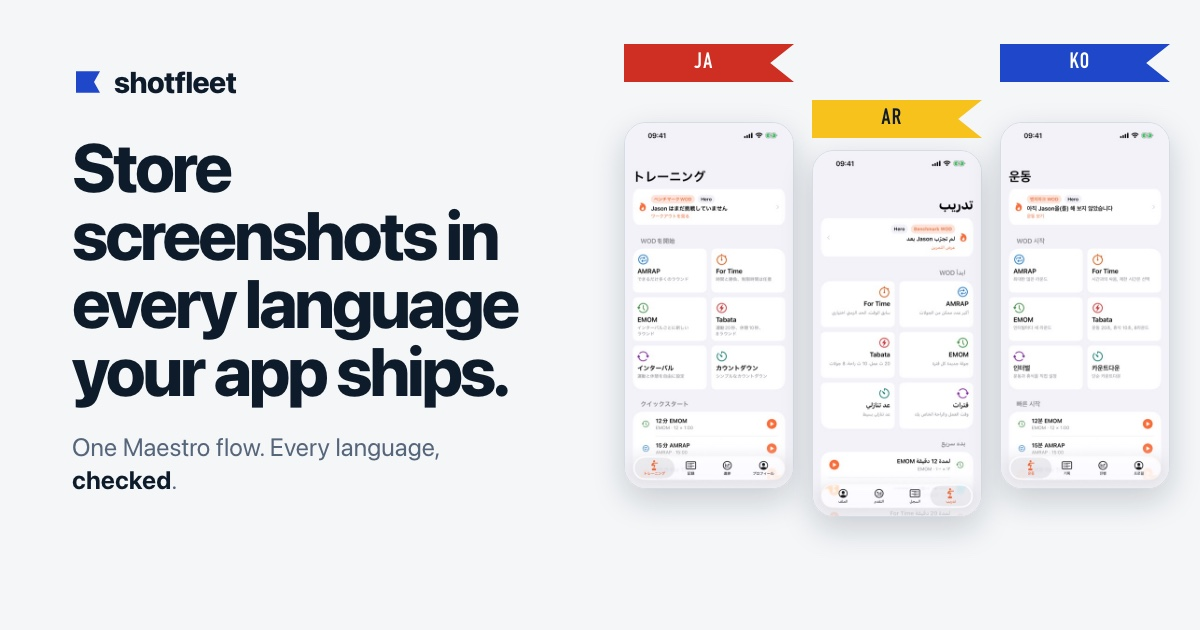
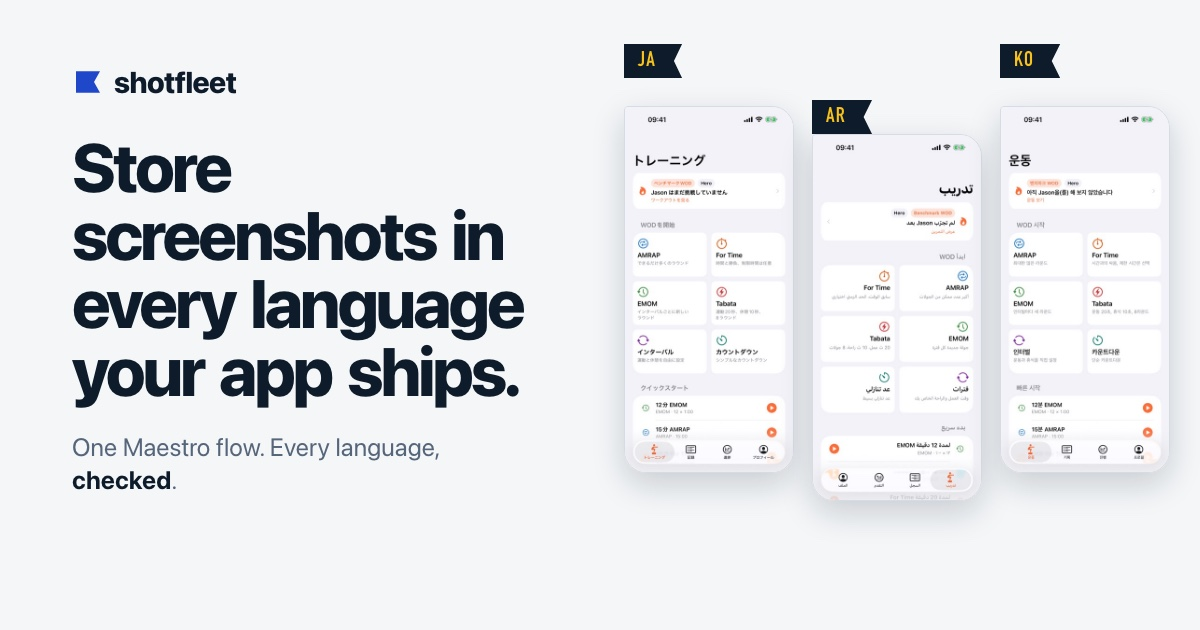
Site: flat ink ribbons with the language code in yellow, language names as captions, a tabbed gallery of Remoti, Stressi and Cairn store screenshots, clearer bug label; matching og.jpg

diff --git a/site/public/index.html b/site/public/index.html
@@ -76,32 +76,39 @@
 
   <div class="fleet" role="group" aria-label="The same app screen in seven languages, each checked" tabindex="0">
       <figure class="ship" style="--i:0">
-        <span class="flag r" aria-hidden="true">ja</span>
+        <span class="ribbon" aria-hidden="true"><span class="flag k"><b>ja</b></span></span>
         <div class="shot"><img src="img/train_ja.jpg" alt="WOD Tracker's Train screen in Japanese, checked" width="360" height="782"><span class="stamp"><svg viewBox="0 0 16 16" fill="none" stroke="currentColor" stroke-width="2.4" stroke-linecap="round" stroke-linejoin="round" aria-hidden="true"><path d="M3 8.5l3.2 3.2L13 4.8"/></svg></span></div>
+        <figcaption>日本語</figcaption>
       </figure>
       <figure class="ship" style="--i:1">
-        <span class="flag k" aria-hidden="true">fr</span>
+        <span class="ribbon" aria-hidden="true"><span class="flag k"><b>fr</b></span></span>
         <div class="shot"><img src="img/train_fr.jpg" alt="WOD Tracker's Train screen in French, checked" width="360" height="782"><span class="stamp"><svg viewBox="0 0 16 16" fill="none" stroke="currentColor" stroke-width="2.4" stroke-linecap="round" stroke-linejoin="round" aria-hidden="true"><path d="M3 8.5l3.2 3.2L13 4.8"/></svg></span></div>
+        <figcaption>Français</figcaption>
       </figure>
       <figure class="ship" style="--i:2">
-        <span class="flag y" aria-hidden="true">ar</span>
+        <span class="ribbon" aria-hidden="true"><span class="flag k"><b>ar</b></span></span>
         <div class="shot"><img src="img/train_ar.jpg" alt="WOD Tracker's Train screen in Arabic, checked" width="360" height="782"><span class="stamp"><svg viewBox="0 0 16 16" fill="none" stroke="currentColor" stroke-width="2.4" stroke-linecap="round" stroke-linejoin="round" aria-hidden="true"><path d="M3 8.5l3.2 3.2L13 4.8"/></svg></span></div>
+        <figcaption>العربية</figcaption>
       </figure>
       <figure class="ship" style="--i:3">
-        <span class="flag b" aria-hidden="true">ko</span>
+        <span class="ribbon" aria-hidden="true"><span class="flag k"><b>ko</b></span></span>
         <div class="shot"><img src="img/train_ko.jpg" alt="WOD Tracker's Train screen in Korean, checked" width="360" height="782"><span class="stamp"><svg viewBox="0 0 16 16" fill="none" stroke="currentColor" stroke-width="2.4" stroke-linecap="round" stroke-linejoin="round" aria-hidden="true"><path d="M3 8.5l3.2 3.2L13 4.8"/></svg></span></div>
+        <figcaption>한국어</figcaption>
       </figure>
       <figure class="ship" style="--i:4">
-        <span class="flag r" aria-hidden="true">ru</span>
+        <span class="ribbon" aria-hidden="true"><span class="flag k"><b>ru</b></span></span>
         <div class="shot"><img src="img/train_ru.jpg" alt="WOD Tracker's Train screen in Russian, checked" width="360" height="782" loading="lazy"><span class="stamp"><svg viewBox="0 0 16 16" fill="none" stroke="currentColor" stroke-width="2.4" stroke-linecap="round" stroke-linejoin="round" aria-hidden="true"><path d="M3 8.5l3.2 3.2L13 4.8"/></svg></span></div>
+        <figcaption>Русский</figcaption>
       </figure>
       <figure class="ship" style="--i:5">
-        <span class="flag y" aria-hidden="true">es</span>
+        <span class="ribbon" aria-hidden="true"><span class="flag k"><b>es</b></span></span>
         <div class="shot"><img src="img/train_es.jpg" alt="WOD Tracker's Train screen in Spanish, checked" width="360" height="782" loading="lazy"><span class="stamp"><svg viewBox="0 0 16 16" fill="none" stroke="currentColor" stroke-width="2.4" stroke-linecap="round" stroke-linejoin="round" aria-hidden="true"><path d="M3 8.5l3.2 3.2L13 4.8"/></svg></span></div>
+        <figcaption>Español</figcaption>
       </figure>
       <figure class="ship" style="--i:6">
-        <span class="flag b" aria-hidden="true">de</span>
+        <span class="ribbon" aria-hidden="true"><span class="flag k"><b>de</b></span></span>
         <div class="shot"><img src="img/train_de.jpg" alt="WOD Tracker's Train screen in German, checked" width="360" height="782" loading="lazy"><span class="stamp"><svg viewBox="0 0 16 16" fill="none" stroke="currentColor" stroke-width="2.4" stroke-linecap="round" stroke-linejoin="round" aria-hidden="true"><path d="M3 8.5l3.2 3.2L13 4.8"/></svg></span></div>
+        <figcaption>Deutsch</figcaption>
       </figure>
       <div class="ship more" style="--i:7"><p>+11</p><span>more languages in the same run</span></div>
   </div>
@@ -136,7 +143,7 @@ checked 72 screenshots: 0 problem(s)</span></pre>
         <p>It was a two-line fix in my app.</p>
       </div>
       <figure class="catch" style="margin:0">
-        <span class="flag r" aria-hidden="true">zh · stuck</span>
+        <span class="flag r" aria-hidden="true">zh · Next is off-screen</span>
         <img src="img/bug_zh.jpg" alt="The Chinese onboarding page on a small Android phone: the Next button is missing below the last option" width="360" height="640" loading="lazy">
       </figure>
     </div>
@@ -172,6 +179,105 @@ checked 72 screenshots: 0 problem(s)</span></pre>
       <div>
         <h2 class="point">Made to work with the rest</h2>
         <p>shotfleet makes the correct raw screenshots. Add frames and captions with ButterKit, AppScreens or frameit, and upload with fastlane. It can check screenshots from any of them too.</p>
+      </div>
+    </div>
+  </section>
+
+  <section class="section" id="apps" aria-labelledby="apps-h">
+    <div class="wrap">
+      <h2 id="apps-h">The same screen, in the languages of my other apps.</h2>
+      <p class="muted lede-small">I ship these too. These are their real store screenshots: one screen, five languages, the thing every listing has to get right.</p>
+      <div class="tabs" role="tablist" aria-label="My apps">
+        <button role="tab" id="tab-remoti" aria-controls="panel-remoti" aria-selected="true">Remoti <span>iPhone</span></button>
+        <button role="tab" id="tab-stressi" aria-controls="panel-stressi" aria-selected="false" tabindex="-1">Stressi <span>Android</span></button>
+        <button role="tab" id="tab-cairn" aria-controls="panel-cairn" aria-selected="false" tabindex="-1">Cairn <span>iPad</span></button>
+      </div>
+    </div>
+    <div class="tabpanel" role="tabpanel" id="panel-remoti" aria-labelledby="tab-remoti">
+      <div class="fleet small" role="group" aria-label="Remoti, the same screen in five languages" tabindex="0">
+        <figure class="ship " style="--i:0">
+          <span class="ribbon" aria-hidden="true"><span class="flag k"><b>ja</b></span></span>
+          <div class="shot"><img src="img/remoti_ja.jpg" alt="Remoti's job list in Japanese" width="359" height="782" loading="lazy"></div>
+        <figcaption>日本語</figcaption>
+        </figure>
+        <figure class="ship " style="--i:1">
+          <span class="ribbon" aria-hidden="true"><span class="flag k"><b>ko</b></span></span>
+          <div class="shot"><img src="img/remoti_ko.jpg" alt="Remoti's job list in Korean" width="359" height="782" loading="lazy"></div>
+        <figcaption>한국어</figcaption>
+        </figure>
+        <figure class="ship " style="--i:2">
+          <span class="ribbon" aria-hidden="true"><span class="flag k"><b>ru</b></span></span>
+          <div class="shot"><img src="img/remoti_ru.jpg" alt="Remoti's job list in Russian" width="359" height="782" loading="lazy"></div>
+        <figcaption>Русский</figcaption>
+        </figure>
+        <figure class="ship " style="--i:3">
+          <span class="ribbon" aria-hidden="true"><span class="flag k"><b>hi</b></span></span>
+          <div class="shot"><img src="img/remoti_hi.jpg" alt="Remoti's job list in Hindi" width="359" height="782" loading="lazy"></div>
+        <figcaption>हिन्दी</figcaption>
+        </figure>
+        <figure class="ship " style="--i:4">
+          <span class="ribbon" aria-hidden="true"><span class="flag k"><b>de</b></span></span>
+          <div class="shot"><img src="img/remoti_de.jpg" alt="Remoti's job list in German" width="359" height="782" loading="lazy"></div>
+        <figcaption>Deutsch</figcaption>
+        </figure>
+      </div>
+    </div>
+    <div class="tabpanel" role="tabpanel" id="panel-stressi" aria-labelledby="tab-stressi">
+      <div class="fleet small" role="group" aria-label="Stressi, the same screen in five languages" tabindex="0">
+        <figure class="ship " style="--i:0">
+          <span class="ribbon" aria-hidden="true"><span class="flag k"><b>ja</b></span></span>
+          <div class="shot"><img src="img/stressi_ja.jpg" alt="Stressi's body-state screen in Japanese" width="348" height="782" loading="lazy"></div>
+        <figcaption>日本語</figcaption>
+        </figure>
+        <figure class="ship " style="--i:1">
+          <span class="ribbon" aria-hidden="true"><span class="flag k"><b>ko</b></span></span>
+          <div class="shot"><img src="img/stressi_ko.jpg" alt="Stressi's body-state screen in Korean" width="348" height="782" loading="lazy"></div>
+        <figcaption>한국어</figcaption>
+        </figure>
+        <figure class="ship " style="--i:2">
+          <span class="ribbon" aria-hidden="true"><span class="flag k"><b>de</b></span></span>
+          <div class="shot"><img src="img/stressi_de.jpg" alt="Stressi's body-state screen in German" width="348" height="782" loading="lazy"></div>
+        <figcaption>Deutsch</figcaption>
+        </figure>
+        <figure class="ship " style="--i:3">
+          <span class="ribbon" aria-hidden="true"><span class="flag k"><b>zh</b></span></span>
+          <div class="shot"><img src="img/stressi_zh.jpg" alt="Stressi's body-state screen in Chinese" width="348" height="782" loading="lazy"></div>
+        <figcaption>中文</figcaption>
+        </figure>
+        <figure class="ship " style="--i:4">
+          <span class="ribbon" aria-hidden="true"><span class="flag k"><b>es</b></span></span>
+          <div class="shot"><img src="img/stressi_es.jpg" alt="Stressi's body-state screen in Spanish" width="348" height="782" loading="lazy"></div>
+        <figcaption>Español</figcaption>
+        </figure>
+      </div>
+    </div>
+    <div class="tabpanel" role="tabpanel" id="panel-cairn" aria-labelledby="tab-cairn">
+      <div class="fleet small" role="group" aria-label="Cairn on iPad, the same screen in five languages" tabindex="0">
+        <figure class="ship land" style="--i:0">
+          <span class="ribbon" aria-hidden="true"><span class="flag k"><b>ja</b></span></span>
+          <div class="shot"><img src="img/cairn_ja.jpg" alt="Cairn on iPad in Japanese" width="620" height="465" loading="lazy"></div>
+        <figcaption>日本語</figcaption>
+        </figure>
+        <figure class="ship land" style="--i:1">
+          <span class="ribbon" aria-hidden="true"><span class="flag k"><b>ko</b></span></span>
+          <div class="shot"><img src="img/cairn_ko.jpg" alt="Cairn on iPad in Korean" width="620" height="465" loading="lazy"></div>
+        <figcaption>한국어</figcaption>
+        </figure>
+        <figure class="ship land" style="--i:2">
+          <span class="ribbon" aria-hidden="true"><span class="flag k"><b>de</b></span></span>
+          <div class="shot"><img src="img/cairn_de.jpg" alt="Cairn on iPad in German" width="620" height="465" loading="lazy"></div>
+        <figcaption>Deutsch</figcaption>
+        </figure>
+        <figure class="ship land" style="--i:3">
+          <span class="ribbon" aria-hidden="true"><span class="flag k"><b>zh</b></span></span>
+          <div class="shot"><img src="img/cairn_zh.jpg" alt="Cairn on iPad in Chinese" width="620" height="465" loading="lazy"></div>
+        <figcaption>中文</figcaption>
+        </figure>
+        <figure class="ship land" style="--i:4">
+          <span class="ribbon" aria-hidden="true"><span class="flag k"><b>fr</b></span></span>
+          <div class="shot"><img src="img/cairn_fr.jpg" alt="Cairn on iPad in French" width="620" height="465" loading="lazy"></div>
+        <figcaption>Français</figcaption>
+        </figure>
       </div>
     </div>
   </section>
@@ -266,5 +372,6 @@ checked 72 screenshots: 0 problem(s)</span></pre>
 </footer>
 
 <script src="/forms.js" defer></script>
+<script src="/tabs.js" defer></script>
 </body>
 </html>

diff --git a/site/public/site.css b/site/public/site.css
@@ -77,6 +77,12 @@ code { font: 0.88em var(--mono); background: color-mix(in srgb, var(--ink) 8%, t
 /* ---------- signal pennants: the signature ---------- */
 .flag { display: inline-grid; place-items: center; height: 34px; padding: 0 24px 0 14px; font: 700 1.1rem/1 var(--signal); letter-spacing: 0.06em; text-transform: uppercase;
   clip-path: polygon(0 0, 100% 0, 86% 50%, 100% 100%, 0 100%); background: var(--ink); color: var(--paper); }
+.flag b { font: 700 1.1rem/1 var(--signal); letter-spacing: 0.06em; text-transform: uppercase; }
+.flag i { font: 600 0.76rem/1 var(--sans); font-style: normal; letter-spacing: 0; text-transform: none; opacity: 0.92; }
+.ribbon .flag { display: inline-flex; align-items: center; height: 30px; padding: 0 24px 0 12px; }
+.ribbon .flag.k b { color: var(--yellow); }
+.ship figcaption { font: 500 0.85rem/1.3 var(--sans); color: var(--muted); padding-top: 10px; }
+.ribbon { display: inline-block; justify-self: start; position: relative; z-index: 1; }
 .flag.y { background: var(--yellow); color: #0d1b2a; }
 .flag.r { background: var(--red); color: #fff; }
 .flag.b { background: var(--blue); color: var(--on-blue); }
@@ -115,10 +121,10 @@ code { font: 0.88em var(--mono); background: color-mix(in srgb, var(--ink) 8%, t
   scroll-padding-inline: max(24px, calc((100vw - 1120px) / 2)); scrollbar-width: none; -webkit-overflow-scrolling: touch; }
 .fleet::-webkit-scrollbar { display: none; }
 .fleet:focus-visible { outline-offset: -3px; }
-.ship { flex: 0 0 clamp(152px, 17vw, 212px); display: grid; gap: 12px; align-content: start; scroll-snap-align: start; margin: 0; }
+.ship { flex: 0 0 clamp(152px, 17vw, 212px); display: grid; gap: 0; align-content: start; scroll-snap-align: start; margin: 0; }
 .ship:nth-child(even) { margin-top: 30px; }
 .ship .shot { position: relative; }
-.ship img { border-radius: 22px; box-shadow: var(--shadow); border: 1px solid var(--line); background: var(--surface); }
+.ship img { border-radius: 4px 22px 22px 22px; box-shadow: var(--shadow); border: 1px solid var(--line); background: var(--surface); }
 .stamp { position: absolute; right: -8px; top: -8px; width: 30px; height: 30px; border-radius: 50%; background: var(--blue); color: var(--on-blue);
   display: grid; place-items: center; box-shadow: 0 0 0 3px var(--paper); }
 .stamp svg { width: 16px; height: 16px; }
@@ -127,11 +133,28 @@ code { font: 0.88em var(--mono); background: color-mix(in srgb, var(--ink) 8%, t
 .ship.more span { color: var(--muted); font-size: 0.95rem; max-width: 18ch; }
 @media (prefers-reduced-motion: no-preference) {
   .ship .stamp { animation: stamp 0.45s cubic-bezier(0.2, 1.4, 0.4, 1) both; animation-delay: calc(0.5s + var(--i) * 0.16s); }
-  .ship .flag { animation: hoist 0.5s ease-out both; animation-delay: calc(var(--i) * 0.08s); }
+  .ship .ribbon { animation: hoist 0.5s ease-out both; animation-delay: calc(var(--i) * 0.08s); }
 }
 @keyframes stamp { from { transform: scale(0); opacity: 0; } to { transform: scale(1); opacity: 1; } }
+@keyframes flutter {
+  0%, 100% { clip-path: polygon(0 0, 100% 0, 87% 50%, 100% 100%, 0 100%); }
+  50% { clip-path: polygon(0 0, 97% 5%, 83% 50%, 97% 95%, 0 100%); }
+}
 @keyframes hoist { from { transform: translateX(-10px); opacity: 0; } to { transform: none; opacity: 1; } }
 .fleet-note { padding-bottom: 8px; }
+.fleet.small .ship { flex-basis: clamp(128px, 14.5vw, 176px); }
+.fleet.small .ship.land { flex-basis: clamp(250px, 30vw, 340px); }
+.fleet.small .ship:nth-child(even) { margin-top: 22px; }
+.fleet.small .ship .ribbon .flag { height: 28px; }
+.tabs { display: flex; flex-wrap: wrap; gap: 8px; margin-top: 22px; }
+.tabs button { font: 650 1rem var(--sans); min-height: 46px; padding: 0 18px; border-radius: 10px; border: 1.5px solid var(--line);
+  background: var(--surface); color: var(--ink); cursor: pointer; transition: background 0.15s, border-color 0.15s; }
+.tabs button:hover { border-color: var(--ink); }
+.tabs button span { font-weight: 500; font-size: 0.85rem; color: var(--muted); margin-left: 6px; }
+.tabs button[aria-selected="true"] { background: var(--ink); color: var(--paper); border-color: var(--ink); }
+.tabs button[aria-selected="true"] span { color: color-mix(in srgb, var(--paper) 72%, transparent); }
+.tabpanel { margin-top: 26px; }
+.tabpanel[hidden] { display: none; }
 
 /* sections */
 .section { padding-block: clamp(56px, 8vw, 104px) 0; }
@@ -205,7 +228,10 @@ input[aria-invalid="true"], textarea[aria-invalid="true"] { border-color: var(--
 .done { border-radius: 12px; background: var(--pass-bg); color: var(--ink); padding: 14px 18px; max-width: 460px; }
 .done b { color: var(--pass); }
 @media (max-width: 820px) { .plans { grid-template-columns: 1fr; } }
-@media (max-width: 520px) { .terminal { font-size: 0.76rem; padding: 16px; } .codecard dl > div { grid-template-columns: 1fr; gap: 4px; } }
+@media (max-width: 520px) {
+  .tabs { flex-wrap: nowrap; }
+  .tabs button { flex: 1 1 0; min-width: 0; padding: 6px 6px; display: flex; flex-direction: column; align-items: center; justify-content: center; line-height: 1.25; font-size: 0.95rem; }
+  .tabs button span { margin: 0; font-size: 0.78rem; } .terminal { font-size: 0.76rem; padding: 16px; } .codecard dl > div { grid-template-columns: 1fr; gap: 4px; } }
 
 footer { margin-top: clamp(80px, 10vw, 128px); border-top: 1px solid var(--line); }
 footer .wrap { display: flex; flex-wrap: wrap; justify-content: space-between; gap: 12px; padding-block: 26px 40px; font-size: 0.88rem; color: var(--muted); }

diff --git a/site/draft/og.html b/site/draft/og.html
@@ -9,7 +9,7 @@
  .row{position:absolute;left:624px;top:44px;display:flex;gap:18px}
  .s{display:grid;gap:12px;width:170px}.s:nth-child(even){margin-top:56px}
  .s img{width:170px;border-radius:22px;border:1px solid #d5dce4;box-shadow:0 12px 32px rgba(13,27,42,.18)}
- .flag{font-size:22px;height:38px}
+ .ribbon .flag{height:34px;padding:0 26px 0 14px}.ribbon .flag b{font-size:21px}.ribbon .flag.k b{color:#f6c21b}.s img{border-radius:4px 22px 22px 22px}.s{gap:0}
 </style></head><body>
 <div class="og"><div>
   <span class="brand"><svg viewBox="0 0 24 24"><path d="M3 4h18l-4.5 8L21 20H3z" fill="#1e48c9"/></svg>shotfleet</span>
@@ -17,7 +17,7 @@
   <p>One Maestro flow. Every language, <b>checked</b>.</p>
 </div>
 <div class="row">
-  <div class="s"><span class="flag r">ja</span><img src="../public/img/train_ja.jpg"></div>
-  <div class="s"><span class="flag y">ar</span><img src="../public/img/train_ar.jpg"></div>
-  <div class="s"><span class="flag b">ko</span><img src="../public/img/train_ko.jpg"></div>
+  <div class="s"><span class="ribbon"><span class="flag k"><b>ja</b></span></span><img src="../public/img/train_ja.jpg"></div>
+  <div class="s"><span class="ribbon"><span class="flag k"><b>ar</b></span></span><img src="../public/img/train_ar.jpg"></div>
+  <div class="s"><span class="ribbon"><span class="flag k"><b>ko</b></span></span><img src="../public/img/train_ko.jpg"></div>
 </div></div></body></html>

diff --git a/site/public/tabs.js b/site/public/tabs.js
@@ -1,0 +1,24 @@
+// The app switcher in the gallery: ARIA tabs with arrow keys. Without JavaScript every strip simply shows, one below the other.
+(function () {
+  var list = document.querySelector('[role="tablist"]');
+  if (!list) return;
+  var tabs = [].slice.call(list.querySelectorAll('[role="tab"]'));
+  function show(tab, focus) {
+    tabs.forEach(function (t) {
+      var on = t === tab;
+      t.setAttribute("aria-selected", on ? "true" : "false");
+      t.tabIndex = on ? 0 : -1;
+      document.getElementById(t.getAttribute("aria-controls")).hidden = !on;
+    });
+    if (focus) tab.focus();
+  }
+  tabs.forEach(function (t, i) {
+    t.addEventListener("click", function () { show(t); });
+    t.addEventListener("keydown", function (e) {
+      var to = e.key === "ArrowRight" ? (i + 1) % tabs.length : e.key === "ArrowLeft" ? (i + tabs.length - 1) % tabs.length :
+               e.key === "Home" ? 0 : e.key === "End" ? tabs.length - 1 : -1;
+      if (to >= 0) { e.preventDefault(); show(tabs[to], true); }
+    });
+  });
+  show(tabs[0]);
+})();
